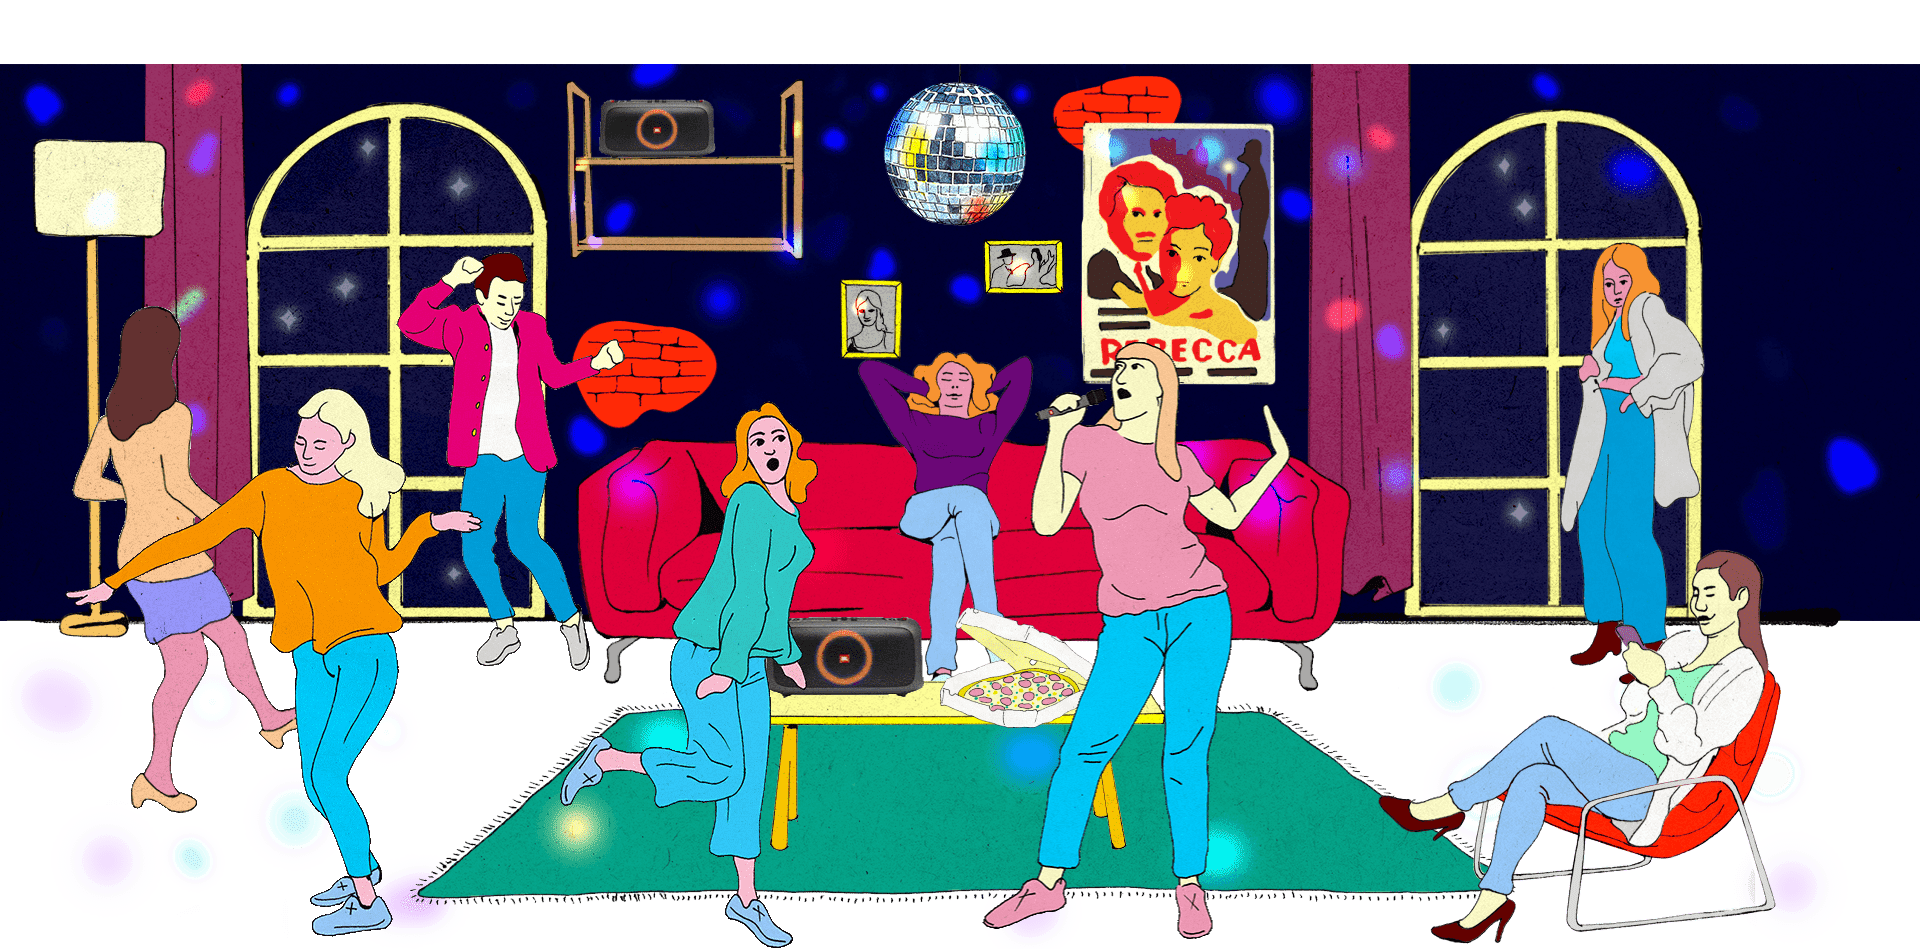
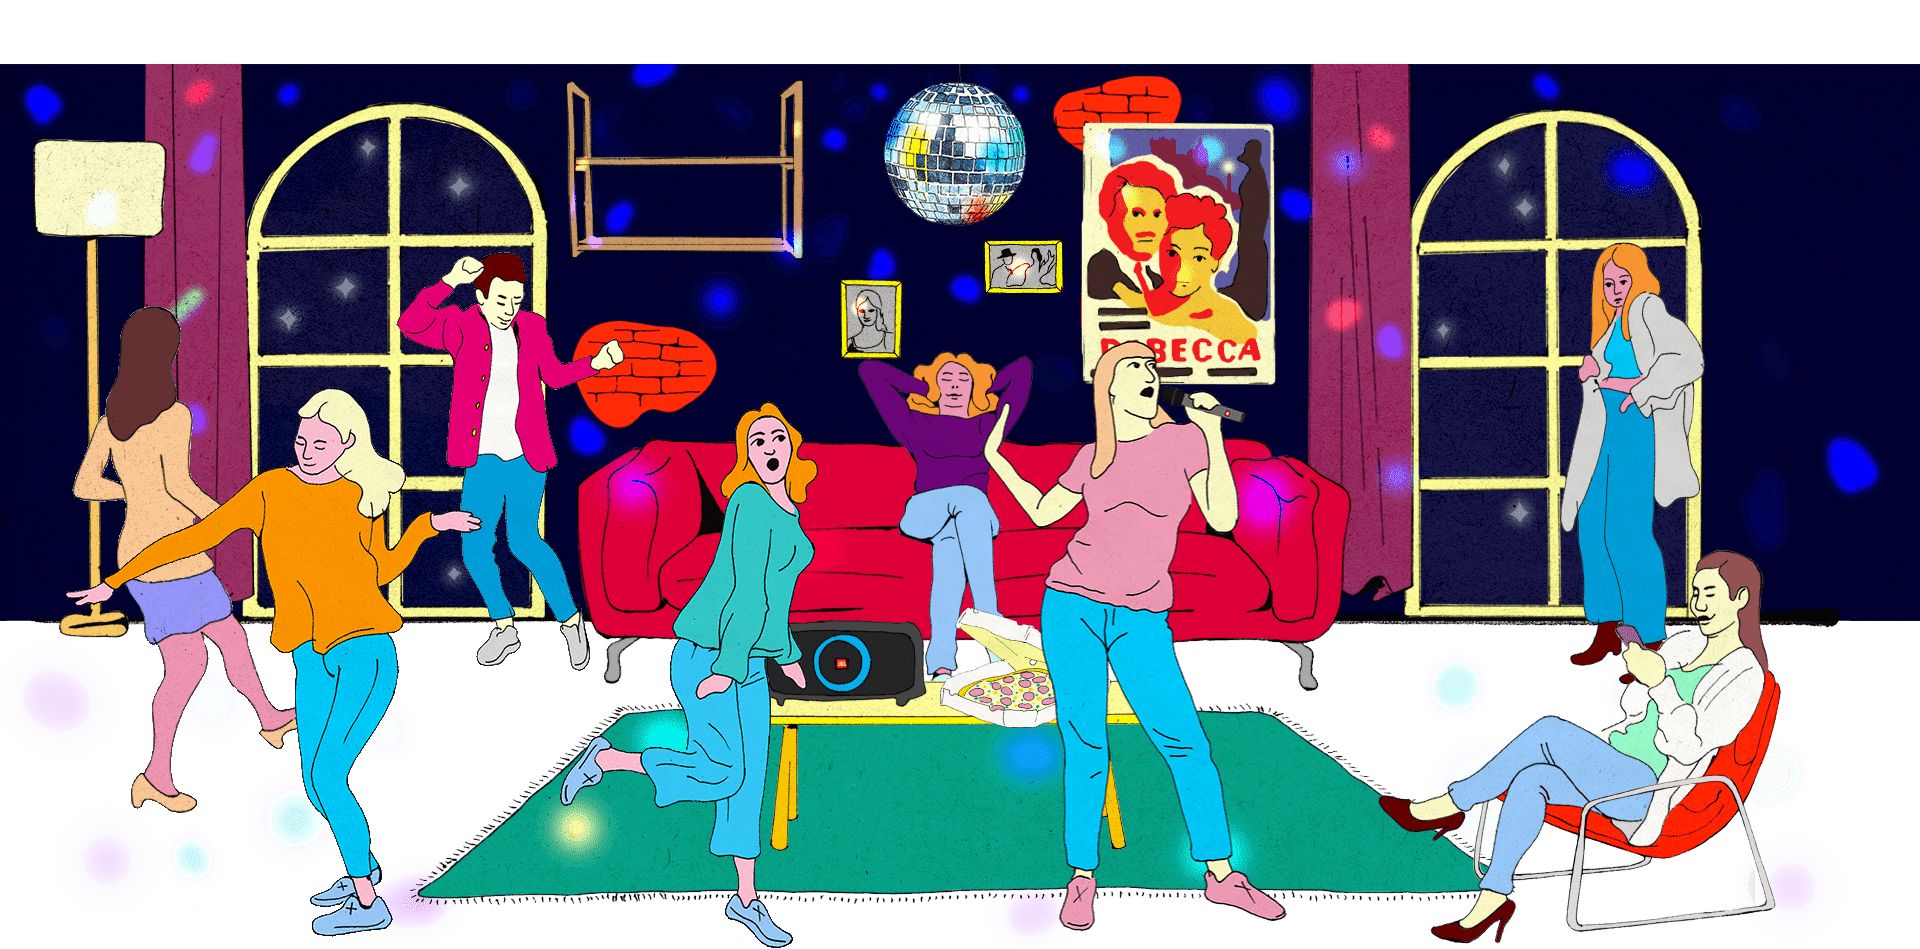
Change level 6

diff --git a/src/components/Game/levelsData.js b/src/components/Game/levelsData.js
@@ -107,9 +107,9 @@ const levels = [
         nocorect: 52,
         animatePlus: [
             { id: 28, style: { left: '39.2em', top: '18.4em', width: '22.9em', height: '42.1em' } },//Парень в розовой рубашке
-            { id: 31, style: { left: '59.2em', top: '3.5em', width: '11.8em', height: '6em' } }, //Колонка
+            // { id: 31, style: { left: '59.2em', top: '3.5em', width: '11.8em', height: '6em' } }, //Колонка
             { id: 32, style: { left: '6.3em', top: '23.4em', width: '26.4em', height: '52.1em' } }, //Девушка спиной
-            { id: 31, style: { left: '75.9em', top: '54.7em', width: '15.8em', height: '8.1em' } }, //Колонка
+            // { id: 31, style: { left: '75.9em', top: '54.7em', width: '15.8em', height: '8.1em' } }, //Колонка
             { id: 49, style: { left: '6em', top: '31.7em', width: '41.9em', height: '55.1em' } }, //Девушка в свитере
             { id: 50, style: { left: '55.3em', top: '33.1em', width: '25.9em', height: '54.8em' } }, //Девушка коряга
             { id: 35, style: { left: '97.2em', top: '27.1em', width: '31em', height: '60em' } }, //Девушка с микрофоном в розовой
@@ -117,8 +117,8 @@ const levels = [
         animateMinus: [
             { id: 28, style: { left: '39.4em', top: '18.5em', width: '22.9em', height: '42.1em' } },//Парень в розовой рубашке
             { id: 29, style: { left: '143.2em', top: '16.8em', width: '14.6em', height: '43.8em' } },//Парень с рюкзаком
-            { id: 31, style: { left: '59.2em', top: '3.5em', width: '11.8em', height: '6em' } }, //Колонка
-            { id: 31, style: { left: '85em', top: '55.2em', width: '15.8em', height: '8.1em' } }, //Колонка
+            // { id: 31, style: { left: '59.2em', top: '3.5em', width: '11.8em', height: '6em' } }, //Колонка
+            // { id: 31, style: { left: '85em', top: '55.2em', width: '15.8em', height: '8.1em' } }, //Колонка
             { id: 53, style: { left: '97.9em', top: '50.3em', width: '19.6em', height: '15.2em' } }, //Пицца на столе не gif
             { id: 32, style: { left: '23.7em', top: '32.7em', width: '26.4em', height: '52.1em' } }, //Девушка спиной
             { id: 54, style: { left: '118.9em', top: '31.7em', width: '18em', height: '54.1em' } }, //Девушка спиной в штанах

diff --git a/src/context.js b/src/context.js
@@ -26,7 +26,7 @@ export default function ContextProvider({ children }) {
     const [em, setEm] = useState(getEm());
     const [globalHeight, setGlobalHeight] = useState(getHeight());
     const [screen, setScreen] = useState('start');//start / game / final
-    const [level, setLevel] = useState(0); //5 //0-9
+    const [level, setLevel] = useState(0); //6 //0-9
     const [yesno, setYesNo] = useState(null);
     const [isMobale, setIsMobale] = useState(getIsMobile());
     const [imgsLoaded, setImgsLoaded] = useState(false);
